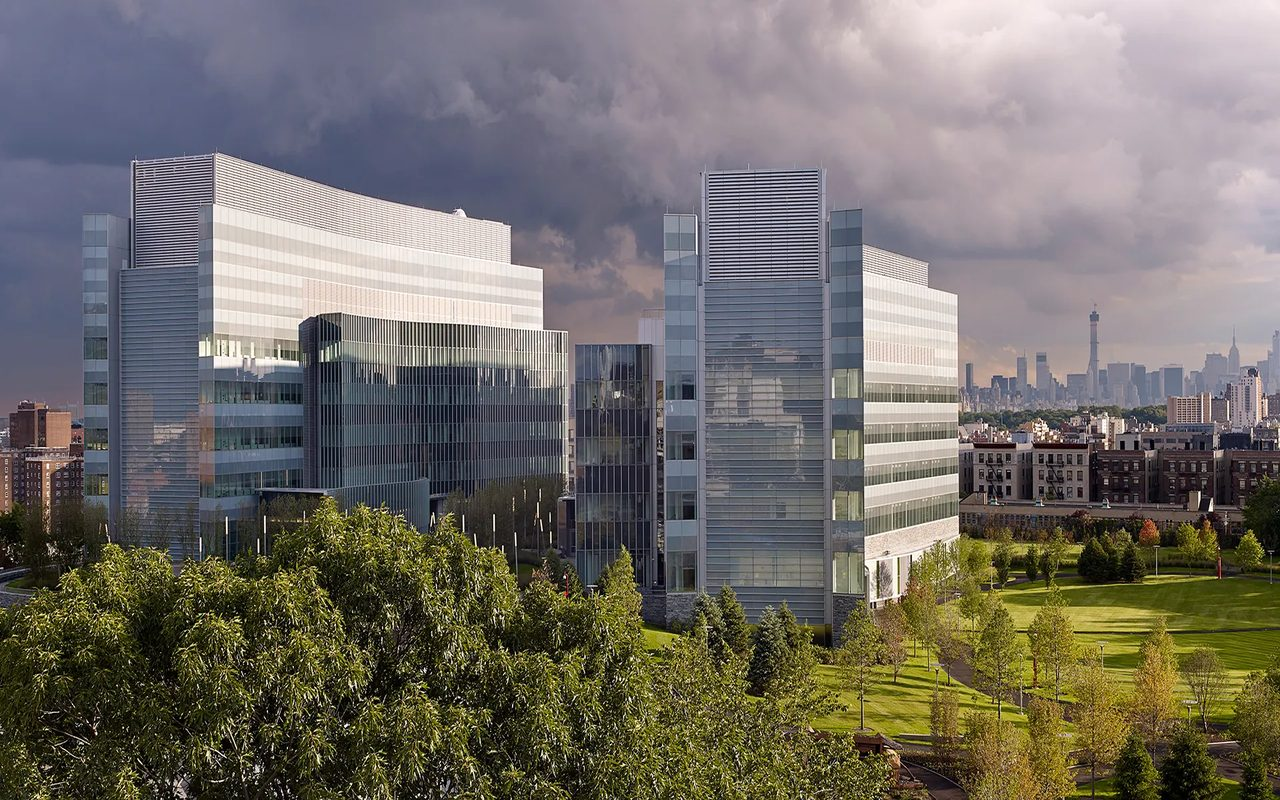
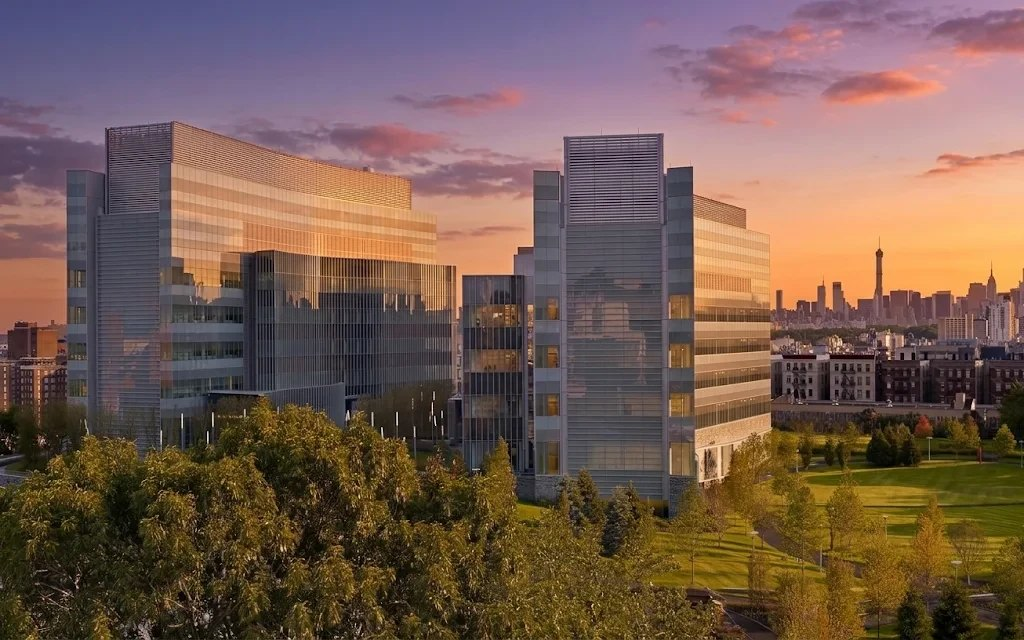
Use sunset photo of the ASRC towers as the headline image
Replaces the earlier cloudy-sky photo with Prasad's edited sunset version
(1024x640): 512x640 crop of the tower and skyline beside the headline on
desktop, full frame above it on phones.

diff --git a/index.html b/index.html
@@ -13,7 +13,7 @@
 <link rel="preconnect" href="https://fonts.googleapis.com">
 <link rel="preconnect" href="https://fonts.gstatic.com" crossorigin>
 <link rel="stylesheet" href="https://fonts.googleapis.com/css2?family=Bricolage+Grotesque:opsz,wght@12..96,500;12..96,700&family=Source+Sans+3:wght@400;600&family=IBM+Plex+Mono:wght@400;500&display=swap">
-<link rel="stylesheet" href="assets/style.css?v=202611081212">
+<link rel="stylesheet" href="assets/style.css?v=202611081232">
 </head>
 <body>
 
@@ -146,6 +146,6 @@
     <span>Updated Nov 2026</span>
   </div>
 </footer>
-<script src="assets/publications.js?v=202611081212" defer></script>
+<script src="assets/publications.js?v=202611081232" defer></script>
 </body>
 </html>
